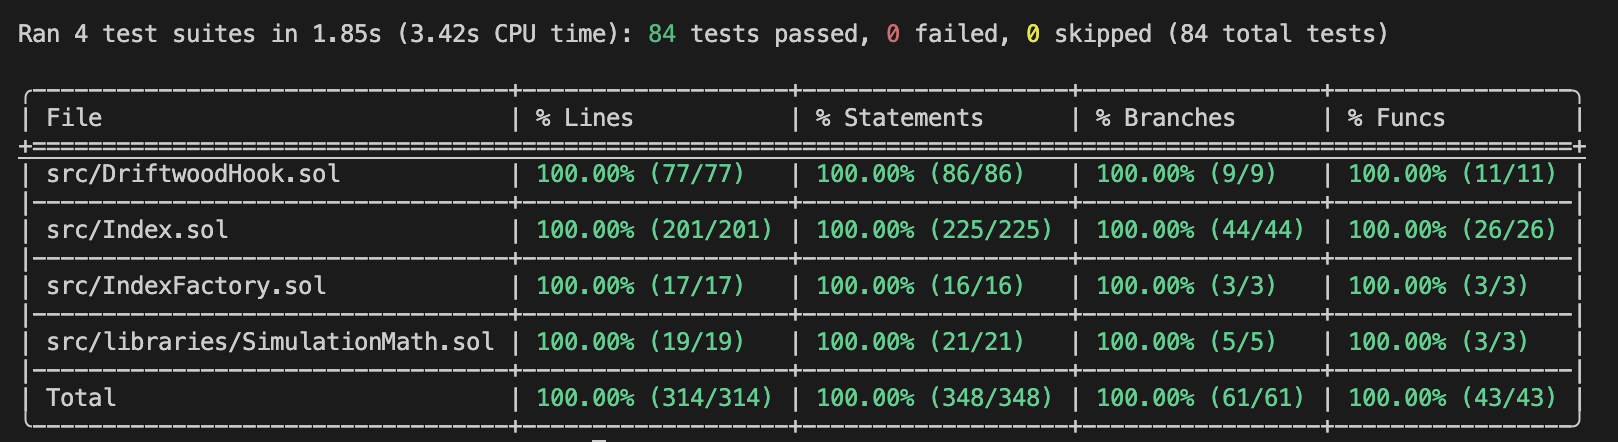
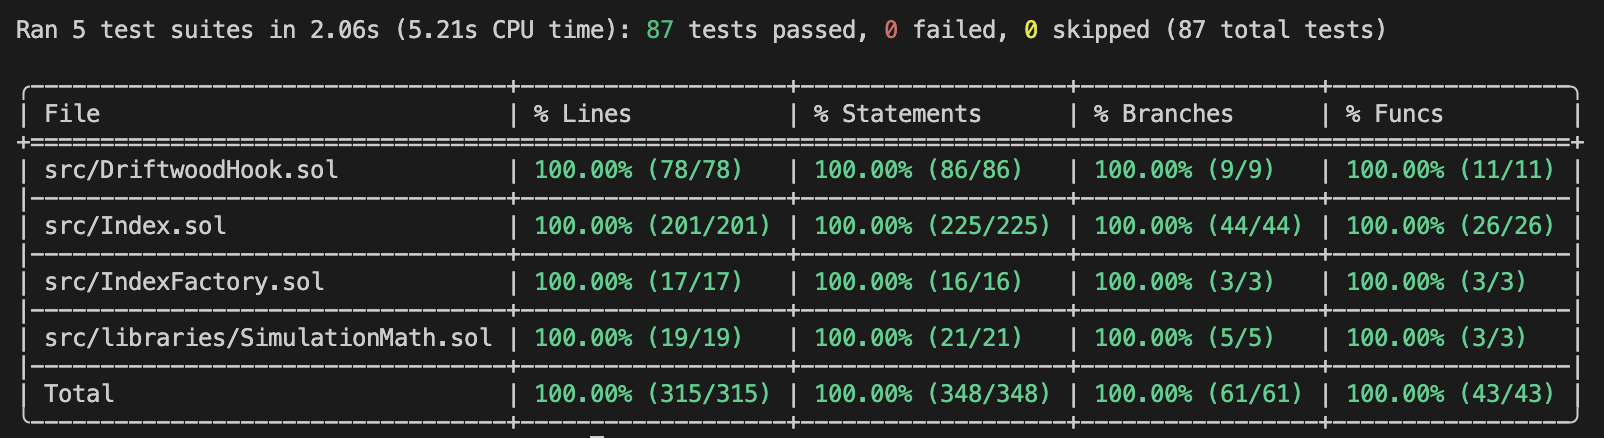
feat: economic simulation

diff --git a/README.md b/README.md
@@ -92,11 +92,42 @@ Driftwood filters toxic flow without auctions:
 - **Post-swap assertion.** `collectAssets` re-checks the weights on the actual balances. If the simulation diverged from reality (for example, the oracle price was swapped between `beforeSwap` and `afterSwap`) — revert.
 - **Single-flight JIT.** Only one JIT loan is active at a time; `mint`/`redeem` and admin setters are blocked while the loan is open.
 
+## Economics
+
+Two questions decide whether Driftwood is worth running: **how much yield** the idle reserves earn, and **how much** the rebalancing actually costs versus simply holding the basket. Both are answered end-to-end against the real hook — not in a spreadsheet, but by running [test/economics/Economics.t.sol](test/economics/Economics.t.sol) on the demo index (1M WETH + 3B USDT ≈ $6B TVL, 50/50 target, ±5% tolerance).
+
+```shell
+$ forge test -vvv --mp test/economics/Economics.t.sol
+```
+
+**Scenario 1 — yield from organic flow (flat market).**
+
+![Economics simulation](./images/test-economics-scenario-1.png)
+
+ETH starts and ends at \$3000, so the price move cancels out and every dollar of surplus is pure fee income. The reserves are lent as JIT liquidity for round-trip swap flow, and the index keeps its fee share on each one. Read the `Annualized yield` line together with `Daily volume / TVL`: because the demo pool's native liquidity is thin, the index captures almost the entire 0.3% fee, so yield is essentially **linear in volume** — double the volume routed through the pool and the APR roughly doubles. The `JIT cycles fired` and `Weights still in tolerance` lines confirm the capital was working the whole time and never drifted out of band.
+
+**Scenario 2 — rebalancing vs HODL (trending market).**
+
+![Economics simulation](./images/test-economics-scenario-2.png)
+
+ETH rises +20% to \$3600. A passive 50/50 basket would drift overweight WETH; here arbitrageurs buy the now-cheap WETH out of the pool, the index sells into that flow, and the position rebalances back toward its target — earning a fee on every trade. Compare three lines: `HODL value`, `Driftwood`, and `Fee income (valued @ $3000)`. The gap between Driftwood and HODL (`Driftwood vs HODL`) is the **bounded** rebalancing drift, capped by the ±5% tolerance, and the fee income is what offsets it. The headline: a traditional index protocol *pays* to rebalance (auctions, MEV, market makers) — Driftwood gets *paid* for the same work, and lands back on its 50/50 mandate (`WETH weight after`).
+
+The absolute numbers scale with the assumed volume and pool depth; the simulation is deterministic, so the figures in the screenshots are reproducible with the command above.
+
+## Limitations
+
+Driftwood is an MVP, and the same simulation that produces the numbers above also makes its boundaries explicit:
+
+- **JIT serves pool-sized flow.** The `_poolHasCapacityForTake` check skips the JIT when a swap is large relative to the pool's settle-able balance. This is a safety mechanism — an oversized swap simply routes through native liquidity without JIT — but it means the index earns nothing on very large trades.
+- **Fee capture depends on native pool depth.** The index receives `hookLiquidity / (hookLiquidity + nativeLiquidity)` of each fee. In a thin pool (as in the demo) this is close to 100%; in a pool with deep standing liquidity the index shares the fee proportionally, and the APR drops accordingly.
+- **Pool price vs oracle (LVR / adverse selection).** The JIT deploys liquidity at the *pool* price, while the weight check values the basket at the *Chainlink* price. The ±5% tolerance, the pre-swap simulation, and the post-swap assertion in `collectAssets` bound how far the composition can move and catch oracle divergence between `beforeSwap` and `afterSwap` — but they do not eliminate loss-versus-rebalancing: an informed trader still trades against the index right before a price move. A future mitigation is a dynamic fee that rises with volatility, compensating for LVR.
+- **One JIT loan at a time.** Only a single JIT cycle can be open per index at any moment, and `mint`/`redeem` together with admin setters are blocked while it is active (the `whenJitInactive` guard). This keeps accounting safe but serializes activity within a block. This could be relaxed in the future.
+
 ## Project status
 
 A working MVP. The JIT cycle runs end-to-end: the index lends liquidity, receives its share of the fee, and the composition stays within tolerance; on huge swaps the JIT is skipped, and on a broken oracle it reverts.
 
-83 tests (0 failed), 100% coverage of the production code in [Index.sol](src/Index.sol) and [DriftwoodHook.sol](src/DriftwoodHook.sol).
+87 tests (0 failed), 100% coverage of the code in [Index.sol](src/Index.sol) and [DriftwoodHook.sol](src/DriftwoodHook.sol).
 
 ![Test coverage](./images/test-coverage.png)
 
